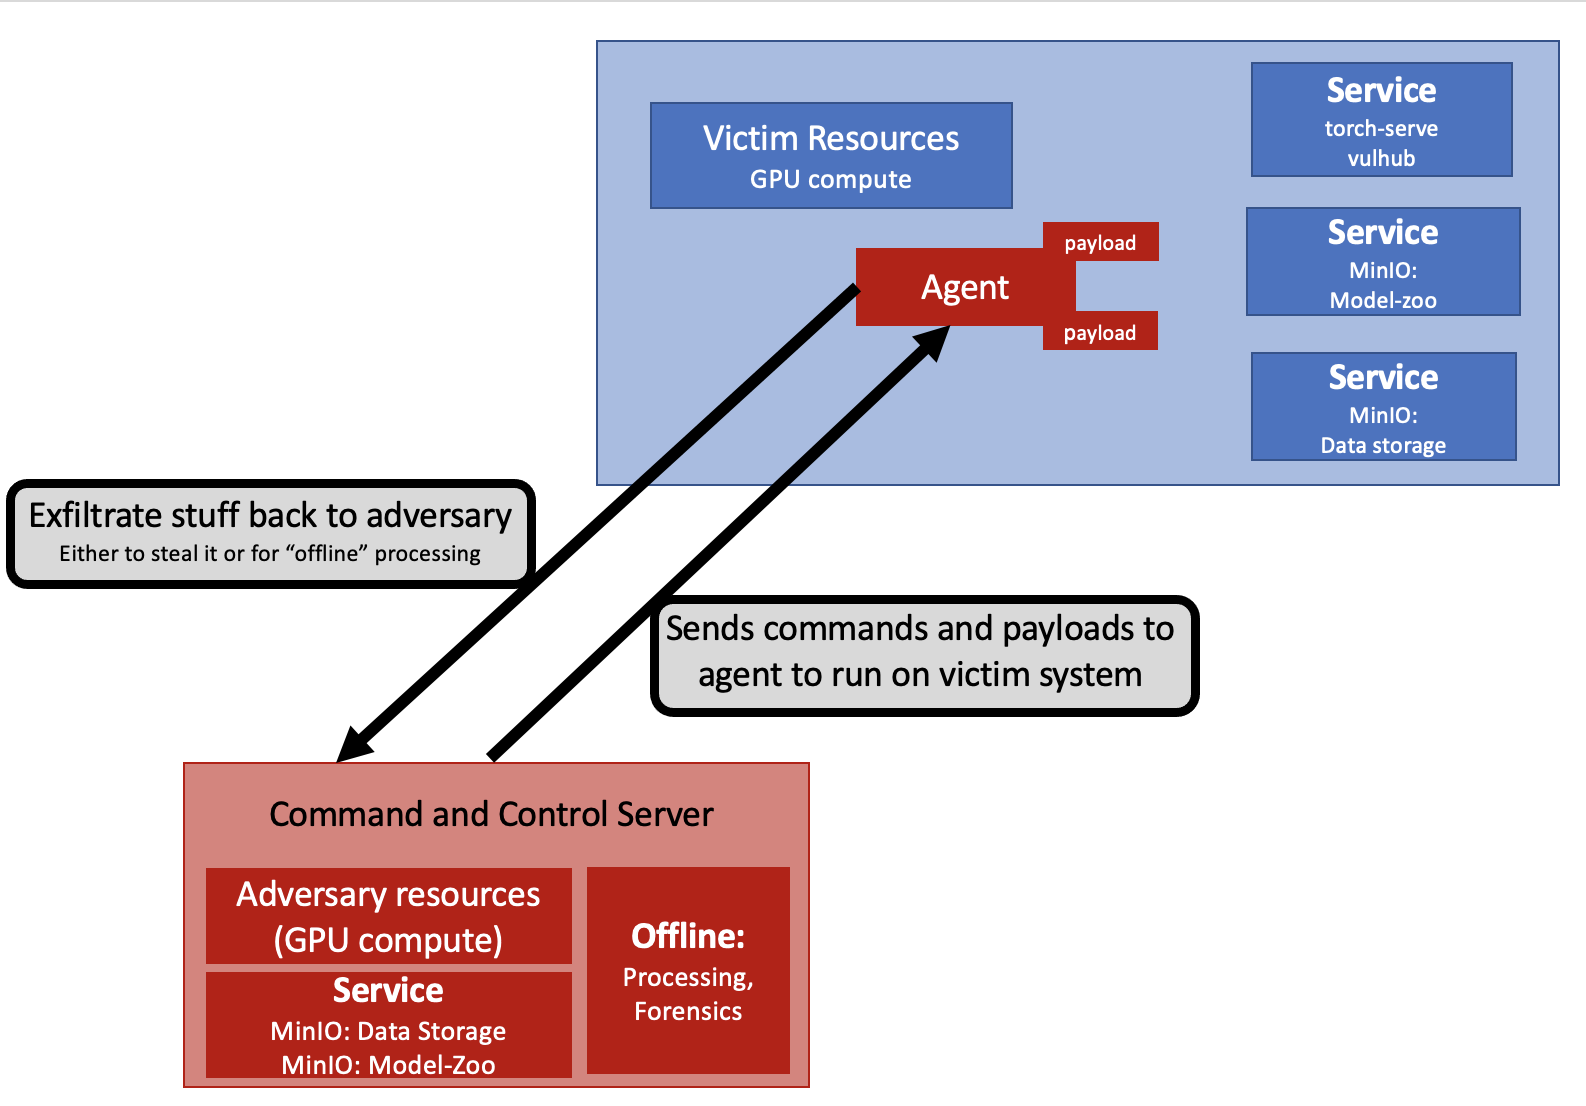
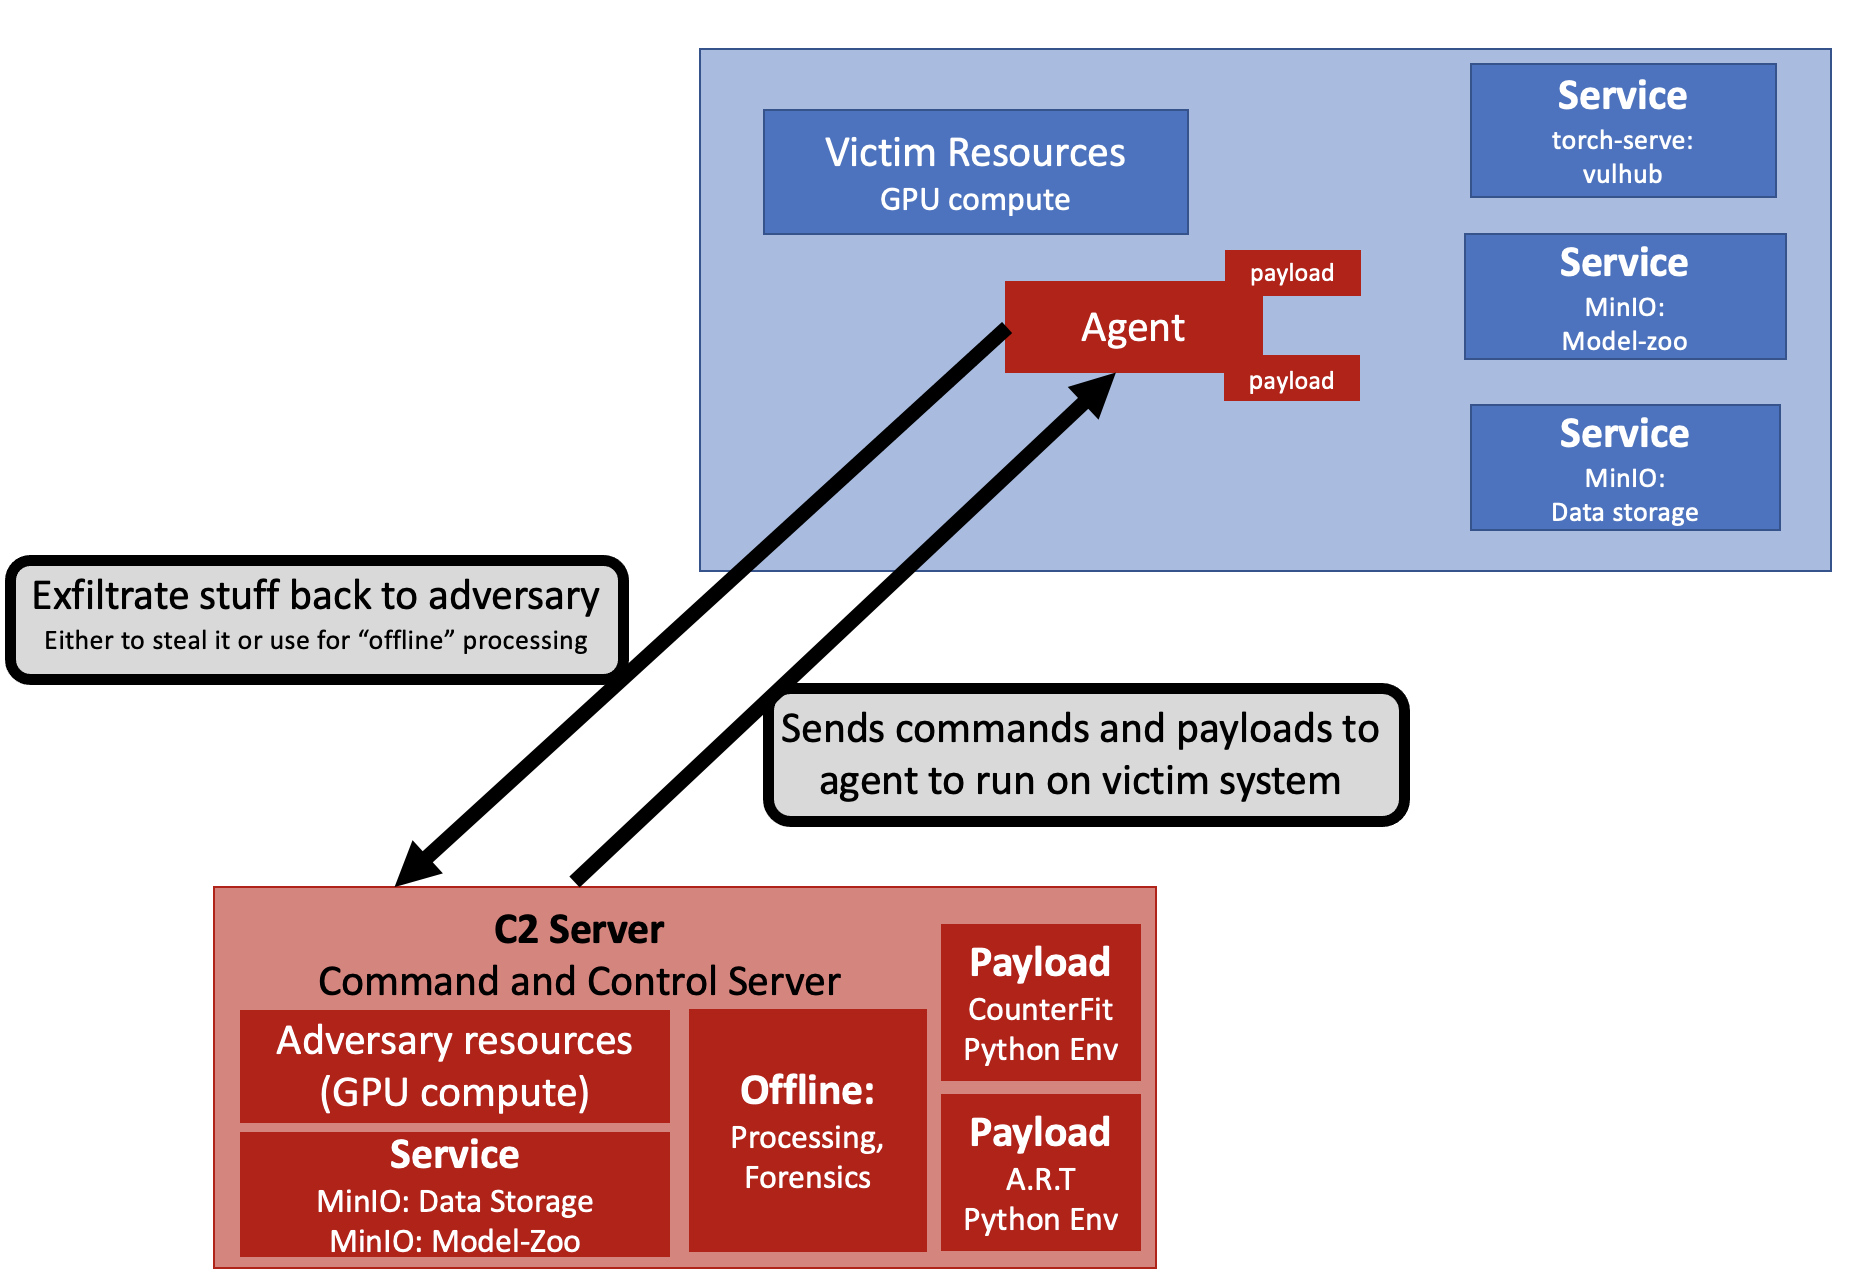
updates documentation

diff --git a/docs/source/dev.md b/docs/source/dev.md
@@ -1,74 +1,51 @@
 # Developers
 
-There are multiple ways to run the Arsenal plugin within CALDERA. The recommended way is mounting the plugin as a *volume* in a Docker container, which allows for active development and modification of hte plugin without restarting the CALDERA server.
+There are multiple ways to run the `ARSENAL` plugin within `CALDERA`. The recommended way is mounting the plugin as a *volume* in a Docker container, which allows for active development and modification of the plugin without restarting the CALDERA server.
 
-*For more information on the Adversary or the Victim services, navigate to those pages.*
+Alternative deployment requires re-starting the `CALDERA` server when changes to the plugin are made.
 
-## 1. Clone Arsenal repo and Almanac repo:
 
-**Arsenal**: MITRE ATLAS TTPs
+## 1. Clone ARSENAL repo:
 
-```
+**ARSENAL**: MITRE ATLAS TTPs
+
+```code
 git clone git@gitlab.mitre.org:advml/arsenal.git
 ```
 
-**Almanac**: repo containing MITRE ATLAS and ability to create adversary profiles that can be loaded via `Arsenal` (coming).
-```
-git clone git@gitlab.mitre.org:advml/almanac.git
+## 2. Run CALDERA + ARSENAL and setting up a Victim system:
 
-```
+*Recommended:
 
+Run the bash script which will:
 
-## 2. HARBOR: Docker images
-We recommend using the container-manager resources for development, which includes a host of pre-built docker images. The images most used with this plugin will be:
-
- - caldera-dev:4.0.0
- - caldera-dev:4.1.0
-
-To request access to Harbor, navigate to: `butler.mitre.org/harbor`
-
- - Use your MITRE SUI and password to login
- - Navigate to the `ATLAS` project page (you must be given access first)
-    
-Use the ```PULL``` tab to copy the command or pull directly using the `TAG`:
-
-```
-docker pull butler.mitre.org/atlas/<IMAGE>:<TAG>
-```
-
-You must periodically login into Harbor to pull new images and push new images (only certain users will be able to push to the atlas folder for obvious reasons). To login, in your terminal:
+- clone the necessary repos: `caldera`, `alamanc`, `ml-vulhub` and install any dependencies
+- install tmux
+- run the necessary docker commands to build `caldera`
+- edit the .bashrc to automatically start the `caldera` server and mount `arsenal` to the correct mount point in a persistent tmux session
+- deploy a vulnerable environment via `ml-vulhub`
 
 ```code
+# Run the script proved in the `arsenal` repo
 
-docker login butler.mitre.org
- >>> MITRE SUI
- >>> MITRE Password
-
+docker_script.sh
 ```
 
-## 3. Automatically Run CALDERA + Arsenal:
-### It is recommended to edit your `.bashrc` to instantiate a docker container with the `arsenal` and `almanac` plugins mounted to a running CALDERA container
+Alternatively, users can also choose to run CALDERA and the Arsenal plugin by symlinking the Arsenal directory to CLADERA's plugin directory. This allows for active development of `arsenal` whilie keeping the repos separated. However, this will require users to restart the `caldera` server when changes are made to the `arsenal` plugin.  
 
 To do so, run the following bash script, which will:
+- clone the necessary repos: `caldera`, `alamanc`, `ml-vulhub` and install any dependencies
+- deploy a vulnerable environment via `ml-vulhub`
+- symlink `almanac` and `arsenal` to CALDERA's plugin directory
+- start the `caldera` server
 
-- install tmux
-- edit `.bashrc` with the docker run command inside a persistent `tmux` session named "caldera"
 
-```code 
+```code
+# Run the script proved in the `arsenal` repo
+
 script.sh
 ```
 
-## 4. Setup a "Victim" System
+*For more information on the Adversary or the Victim services, navigate to those pages.*
 
-Arsenal abilities, adversaries, and operations require a victim system to be running on another system that can be accessed via an API (Rest) or via SSH (curl) commands.
-
- To setup the basic `mmdet-serve`, a pytorch model trained for object detection, pull the latest docker image hosted on Harbor:
-
- ```
-docker pull butler.mitre.org/atlas/mmdet-serve:retinanet
-
-docker run -d -p <port>:<port> butler.mitre.org/atlas/mmdet-serve:retinanet
-```
-
-You can also choose to use [`ml-vulhub`](git@gitlab.mitre.org:advml/ml-vulhub.git) (**recommended**) which is an open-source collection of pre-built vulnerable docker environments running services:
-
+**this requires docker to be installed on your machine*

diff --git a/docs/source/intro.md b/docs/source/intro.md
@@ -1,27 +1,40 @@
-# Arsenal
+# ARSENAL
 
-## **Arsenal** is a Machine Leaerning (ML) plugin to the platform [`CALDERA`](https://github.com/mitre/caldera), that implements Tactics, Techniques, and Procedures (TTPs) specific to ML operations described in [`MITRE ATLAS`](https://atlas.mitre.org/).
+## `ARSENAL` is a Machine Learning (ML) plugin to the platform [`CALDERA`](https://github.com/mitre/caldera), that implements Tactics, Techniques, and Procedures (TTPs) specific to ML operations described in [`MITRE ATLAS`](https://atlas.mitre.org/).
 
+---
+
+## Included ML Libraries
+
+---
 ### Arsenal implements modern ML libraries for adversarial ML development including:
 
- - Counterfit (link)
- - Adversarial Robustness Toolbox (ART) (link)
+ - [`Counterfit`](https://github.com/Azure/counterfit) - which wraps [`Adversarial Robustness Toolbox (ART)`](https://github.com/Trusted-AI/adversarial-robustness-toolbox), [`TextAttack`](https://github.com/QData/TextAttack), and [`Augly`](https://github.com/facebookresearch/AugLy)
 
-### Deployed using Docker via:
- - Vulhub (link)
- - torch-serve (link)
- - MinIO (link)
+ - [`Vulhub`](https://github.com/vulhub/vulhub) - deploy vulnerable environments via docker
+ - [`torch-serve`](https://pytorch.org/serve/) - serve any type of model to emulate / red-team
+ - [`MinIO`](https://github.com/minio/minio) - deploy object stores and S3 buckets to immitate a victim system hosting data and/or models
+ - [`Almanac`](https://github.com/mitre-atlas/almanac) - generate adversary layers (sequences of operations) based on MITRE ATLAS TTPs.
+---
 
-## Arsenal allows users to Red Team internal and external systems on a variety of pletforms (linux, windows, etc.) via CALDERA in conjunction with cybersecurity-based plugins and TTPs from MITRE ATT&CK (link).
+## Emulation Diagram
+---
 
-There is a moderate amount of setup for a user to configure Arsenal for their own personal needs. Off the shelf Abilities and Adversaries are provided, and further instructions are provided for setting up:
--  individual model-zoo's 
--  data repositories
+### Arsenal allows users to perform red teaming emulation on internal and external systems using a variety of platforms (linux, windows, etc.) via CALDERA in conjunction with cybersecurity-based plugins and TTPs.
+
+
+There is a moderate amount of setup for a user to configure `ARSENAL` for their own personal needs. Off the shelf Abilities and Adversaries are provided, and further instructions are provided for using a mix of automated capabilities and manual commands.
 
 The following diagram illustrates the basic usage of the Arsenal plugin within CALDERA:
 
 ![arsenal](../assets/arsenal_diagram.png)
 
+---
+
 ## Developers
 
-If you are a developer and would like to contribute to Arsenal, please see our Gitlab. For intructions on setting up our development environment, please navigate to here (link).
+---
+
+If you are a developer and looking to contribute to `ARSENAL` or modify it for your needs, please navigate to the [`developers page`]().
+
+Currently, `ARSENAL` is not a default plugin within `CALDERA`, and therefore additional setup to integrate with the app is required.

diff --git a/docs/source/victim.md b/docs/source/victim.md
@@ -1,14 +1,20 @@
-# Victim: Arsenal
+# Arsenal: Victim
 
-## Arsenal requires a victim system to attack (preferrably) hosting a machine learning algorithm.
+Arsenal requires a victim system to attack (preferrably) hosting a machine learning algorithm.
 
 However, hosting an algorithm is not required, an adversary may be interested in discovering hardware/compute capabilities of an adversary, exfiltrating data hosted on the system, etc. regardless of a hosted algorithm.
 
-## Forensics
+---
 
-A large area of research coming out of Adversarial ML research is the idea of *forensics*. This could be:
+## Currently, `arsenal` uses the package [`ml-vulhub`](https://github.com/mitre-atlas/ml-vulhub) to deploy vulnerable environments. 
+---
 
-- Discovering the intent of an adversary through attribution of attacks, frequency of API calls, iterative image data, etc.
-- Discovering the underlying attacks used by an adversary
+An example use-case that an adversary may encounter is levels of *access*. In `caldera` we can use the plugin `access` to first investigate a victim system before deploying an agent to that system.
 
-Arsenal can also be used in conjuntion with another MITRE plugin to analyze these attacks and report metrics and observations about the adversaries intent. This can be used by both the "victim" or a blue-team to analyze their robustness, and by adversaries or a red-team to analyze their vulnerabilities as an attacker.
+For instance, an initial access agent, running from the Command-and-Control (C2) server could find that at a particular IP address the following services are running, which could inidicate a ML service is also on this vulnerable system:
+
+![access_1](../assets/access.png)
+
+However, to find additional resources or ML services, an agent would need to deployed on that vulnerable system.
+
+![access_2](../assets/access_2.png)

diff --git a/docs/source/index.rst b/docs/source/index.rst
@@ -2,7 +2,7 @@ Welcome to Arsenal
 ==============================================
 
 Running Arsenal with CALDERA
----------------------------
+----------------------------
 :doc:`intro`
    Introduction to Arsenal and instructions on installing the repo and using it with CALDERA.
 
